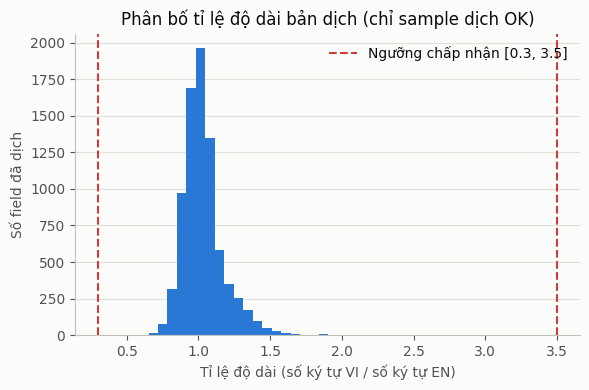
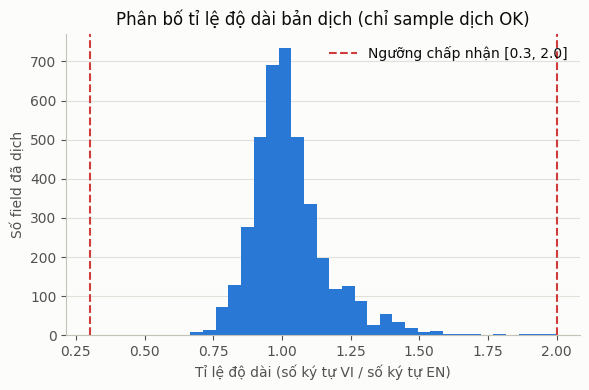
feat: update

diff --git a/src/test_set/qa_datasets/translate_dataset.py b/src/test_set/qa_datasets/translate_dataset.py
@@ -106,6 +106,11 @@ class TranslationResult:
     translated_fields: dict[str, str] = field(default_factory=dict)
     error: Optional[str] = None
     mode: str = "batched"  # "batched" | "fallback_single"
+    # Whatever the last parseable (but possibly rejected) translation attempt
+    # produced -- populated even when ok=False, so a failed sample's actual
+    # (bad) Gemini output can still be inspected later, not just its EN
+    # source and a category-string error reason.
+    attempted_fields: dict[str, str] = field(default_factory=dict)
 
 
 SYSTEM_PROMPT = """\
@@ -278,14 +283,22 @@ def _parse_response(response_text: str, units: list[TranslationUnit]) -> Optiona
 
 def translate_unit_single(
     client, model: str, unit: TranslationUnit, *, max_retries: int, usage_tracker: Optional[UsageTracker] = None,
+    initial_attempt: Optional[dict[str, str]] = None,
 ) -> TranslationResult:
     """Retries up to max_retries full attempts -- each one a fresh Gemini
     call -- as long as the *result* keeps failing validation (not just on
     API errors, which _call_gemini_json already retries internally). Gives
     the model repeated independent chances to get this one stubborn unit
-    right before giving up on it."""
+    right before giving up on it.
+
+    `initial_attempt`: an already-parsed-but-rejected translation from a
+    prior batch call for this same unit, if any -- kept as the reported
+    attempted_fields in case every retry here fails to even parse, so a
+    failed sample's actual (bad) output is never lost, just never accepted.
+    """
     prompt = _build_prompt([unit])
     last_error = "unknown error"
+    last_attempted = initial_attempt or {}
 
     for attempt in range(max_retries):
         try:
@@ -304,12 +317,15 @@ def translate_unit_single(
             continue
 
         translated = parsed[unit.sample_index]
+        last_attempted = translated
         reason = validate_unit(unit, translated)
         if reason is None:
             return TranslationResult(unit.sample_index, ok=True, translated_fields=translated, mode="fallback_single")
         last_error = reason
 
-    return TranslationResult(unit.sample_index, ok=False, error=last_error, mode="fallback_single")
+    return TranslationResult(
+        unit.sample_index, ok=False, error=last_error, mode="fallback_single", attempted_fields=last_attempted
+    )
 
 
 def translate_batch(
@@ -345,9 +361,14 @@ def translate_batch(
             results.append(TranslationResult(unit.sample_index, ok=True, translated_fields=translated))
         else:
             # Only this unit failed validation -- retry it alone, keep the
-            # rest of the batch's (valid) results as-is.
+            # rest of the batch's (valid) results as-is. Pass this batch
+            # attempt through as the fallback attempted_fields in case every
+            # single-unit retry fails to even parse.
             results.append(
-                translate_unit_single(client, model, unit, max_retries=max_retries, usage_tracker=usage_tracker)
+                translate_unit_single(
+                    client, model, unit, max_retries=max_retries, usage_tracker=usage_tracker,
+                    initial_attempt=translated,
+                )
             )
     return results
 
@@ -420,6 +441,7 @@ def translate_units(
                             "sample_index": r.sample_index,
                             "ok": r.ok,
                             "translated_fields": r.translated_fields,
+                            "attempted_fields": r.attempted_fields,
                             "error": r.error,
                             "mode": r.mode,
                         }, ensure_ascii=False) + "\n")

diff --git a/src/test_set/qa_datasets/TRANSLATION_QUALITY_REPORT.md b/src/test_set/qa_datasets/TRANSLATION_QUALITY_REPORT.md
@@ -39,8 +39,8 @@ loại) để phát hiện xu hướng, không chỉ đọc vài sample đầu f
 
 | Dataset | Tổng sample đã thử dịch | Dịch OK | Dịch lỗi (đã loại) | Tỉ lệ thành công |
 |---|---|---|---|---|
-| MusicBench | 2000 | 2000 | 0 | 100.0% |
-| MusicQA | 2000 | 1980 | 20 | 99.0% |
+| MusicBench | 1000 | 1000 | 0 | 100.0% |
+| MusicQA | 1000 | 988 | 12 | 98.8% |
 
 ![Tỉ lệ dịch thành công theo dataset](translation_success_rate.png)
 
@@ -54,35 +54,64 @@ loại) để phát hiện xu hướng, không chỉ đọc vài sample đầu f
 vài sample đã dịch" và mục "13. Mẫu bản dịch để dán vào báo cáo" trong
 notebook), nhận thấy:
 
-- Không có sample nào còn sót tiếng Anh trong các mẫu đã xem.
-- Cặp câu hỏi-câu trả lời của MusicQA giữ đúng ngữ cảnh với nhau sau khi
-  dịch — ví dụ câu hỏi "What do you hear in the audio?" dịch đúng ngôi
-  "Bạn nghe thấy gì trong đoạn âm thanh?", và câu trả lời vẫn mô tả đúng nội
-  dung tương ứng, không lệch chủ đề.
-- Thuật ngữ nhạc lý được xử lý hợp lý: giữ nguyên các từ chuyên ngành guitar
-  phổ biến trong cộng đồng nhạc Việt (`hammer-on`, `slide`, `riff`, `rim
-  shot`), đồng thời dịch hẳn sang tiếng Việt các khái niệm có thuật ngữ
-  tương đương rõ ràng (`E major` → "Mi trưởng (E major)", giữ cả hai để dễ
-  đối chiếu).
-- Độ dài bản dịch tương xứng bản gốc, không thấy dấu hiệu cắt cụt hay
-  hallucinate thêm nội dung không có trong câu gốc.
-
-*(Dán thêm mẫu từ mục "13" của notebook vào đây khi cập nhật báo cáo với dữ
-liệu mới.)*
+- Không có sample nào còn sót tiếng Anh trong cả 6 mẫu bên dưới (3
+  MusicBench, 3 MusicQA).
+- **Thuật ngữ nhạc lý nhất quán giữa các lượt gọi độc lập**: cả 3 mẫu
+  MusicBench đều dịch `riff`/`arpeggiated chord`/`hammer-on`/`slide`/`rim
+  shot`/`double stop hammer-on` giống hệt nhau (giữ nguyên tiếng Anh), và
+  `common time` → "nhịp 4/4", `E major` → "Mi trưởng (E major)" cũng lặp lại
+  y hệt ở cả 3 mẫu — vì mỗi caption được dịch ở một lượt gọi Gemini riêng
+  (khác batch), sự nhất quán này cho thấy lựa chọn thuật ngữ ổn định theo
+  system prompt, không phải trùng hợp ở một mẫu.
+- **Câu hỏi-câu trả lời của MusicQA giữ đúng ngữ cảnh với nhau** ở cả 3 mẫu:
+  câu lệnh mô tả ngắn ("Describe the audio", "Describe the audio in detail")
+  dịch đúng dạng câu lệnh khách quan ("Mô tả đoạn âm thanh này", "Mô tả chi
+  tiết đoạn âm thanh"), còn câu hỏi trực tiếp ("What do you hear in the
+  audio?") dịch đúng ngôi thứ 2 ("Bạn nghe thấy gì trong đoạn âm thanh?")
+  thay vì nhầm sang câu lệnh — câu trả lời tương ứng luôn bám đúng nội dung
+  được hỏi, không lệch chủ đề.
+- **Cách xử lý thuật ngữ tiếng Anh nhất quán giữa 2 dataset**: tên thể loại
+  nhạc (`alternative rock`, `post-rock`, `electronic`, `experimental`) giữ
+  nguyên không dịch; từ mơ hồ được chú thích song ngữ kiểu
+  `distorted` → "bị méo tiếng (distorted)", cùng kỹ thuật với
+  "Mi trưởng (E major)" bên MusicBench.
+- Độ dài và mức chi tiết bản dịch tương xứng bản gốc ở cả 6 mẫu, không thấy
+  dấu hiệu cắt cụt hay hallucinate thêm nội dung không có trong câu gốc.
 
 **MusicBench**
 
-> EN: (dán mẫu từ notebook vào đây)
+> EN: This mellow instrumental track showcases a dominant electric guitar that opens with a descending riff, followed by arpeggiated chords, hammer-ons, and a slide. The percussion section keeps it simple with rim shots and a common time count, while the bass adds a single note on the first beat of every bar. Minimalist piano chords round out the song while leaving space for the guitar to shine. There are no vocals, making it perfect for a coffee shop or some chill background music. The key is in E major, with a chord progression that centers around that key and a straightforward 4/4 time signature.
 >
-> VI: (dán mẫu từ notebook vào đây)
+> VI: Bản nhạc không lời êm dịu này làm nổi bật tiếng guitar điện chủ đạo, mở đầu bằng một đoạn riff đi xuống, theo sau là các hợp âm rải (arpeggio), kỹ thuật hammer-on và slide. Phần bộ gõ giữ nhịp đơn giản với tiếng rim shot và nhịp 4/4, trong khi tiếng bass chỉ đánh một nốt vào phách đầu của mỗi ô nhịp. Những hợp âm piano tối giản làm tròn trịa bài hát, để lại khoảng trống cho tiếng guitar tỏa sáng. Bài hát không có giọng hát, rất phù hợp cho quán cà phê hoặc làm nhạc nền thư giãn. Bài hát ở giọng Mi trưởng (E major), với vòng hợp âm xoay quanh giọng này và nhịp 4/4 thẳng thắn.
+
+> EN: This relaxing song is perfect for a coffee shop setting. With no vocals, the electric guitar takes the lead, starting with a descending run before moving into an arpeggiated chord and double stop hammer-on to a higher note. A descending slide follows, along with a chord run while the simple percussion keeps time with rim shots. The bass plays a single note on the first count of each bar while the piano provides backing chords. All of this comes together in common time, with a beat of four that will create a laid-back atmosphere.
+>
+> VI: Bài hát thư giãn này rất phù hợp với không gian quán cà phê. Không có giọng hát, guitar điện đóng vai trò dẫn dắt, bắt đầu bằng một đoạn chạy nốt đi xuống trước khi chuyển sang hợp âm rải và kỹ thuật double stop hammer-on lên nốt cao hơn. Tiếp theo là một cú slide đi xuống cùng một đoạn chạy hợp âm, trong khi bộ gõ đơn giản giữ nhịp bằng tiếng rim shot. Bass chơi một nốt ở phách đầu mỗi ô nhịp trong khi piano cung cấp các hợp âm đệm. Tất cả hòa quyện trong nhịp 4/4, với nhịp đếm 4 tạo nên một bầu không khí thoải mái.
+
+> EN: This laid-back instrumental track is perfect for a coffee shop ambiance. Featuring an electric guitar as the primary instrument, the song begins with a descending run followed by an arpeggiated chord and a hammer-on to a higher note. The percussion provides a simple beat with rim shots while the bass hits only one note on the first count of each bar. The piano plays backing chords as the guitar continues with a descending slide and chord run. There are no vocals, allowing for a relaxing and chill mood. The song is in common time with a chord progression of E and a 4-count beat.
+>
+> VI: Bản nhạc không lời thoải mái này rất phù hợp cho không gian quán cà phê. Với guitar điện là nhạc cụ chính, bài hát bắt đầu bằng một đoạn chạy nốt đi xuống, theo sau là hợp âm rải và kỹ thuật hammer-on lên nốt cao hơn. Bộ gõ cung cấp nhịp điệu đơn giản với tiếng rim shot, trong khi bass chỉ đánh một nốt ở phách đầu mỗi ô nhịp. Piano chơi các hợp âm đệm khi guitar tiếp tục với một cú slide đi xuống và đoạn chạy hợp âm. Không có giọng hát, tạo nên tâm trạng thư giãn và chill. Bài hát ở nhịp 4/4 với vòng hợp âm E và nhịp đếm 4.
+
 
 **MusicQA**
 
-> Q (EN): (dán mẫu từ notebook vào đây)
-> Q (VI): (dán mẫu từ notebook vào đây)
+> Q (EN): Describe the audio
+> Q (VI): Mô tả đoạn âm thanh này
 >
-> A (EN): (dán mẫu từ notebook vào đây)
-> A (VI): (dán mẫu từ notebook vào đây)
+> A (EN): The audio is an alternative rock post-rock electronic experimental track.
+> A (VI): Đây là một bản nhạc thuộc thể loại alternative rock, post-rock, electronic và experimental.
+
+> Q (EN): Describe the audio in detail
+> Q (VI): Mô tả chi tiết đoạn âm thanh
+>
+> A (EN): The audio is a blend of post-rock and electronic experimental sounds, with a heavy emphasis on drums and bass. The track features a variety of instrumentation, including guitar, synthesizers, and samples. The overall sound is raw and experimental, with a strong emphasis on atmosphere and mood.
+> A (VI): Đoạn âm thanh là sự pha trộn giữa post-rock và âm hưởng electronic experimental, với điểm nhấn mạnh vào trống và bass. Bản nhạc sử dụng đa dạng nhạc cụ bao gồm guitar, synthesizer và các đoạn sample. Âm thanh tổng thể mang tính thô mộc và thử nghiệm, chú trọng nhiều vào không gian và cảm xúc.
+
+> Q (EN): What do you hear in the audio?
+> Q (VI): Bạn nghe thấy gì trong đoạn âm thanh?
+>
+> A (EN): The audio is a mix of distorted guitar riffs, electronic samples, and experimental sounds. The drums and bass are heavily distorted, creating a raw and aggressive sound. The track features a variety of samples, including snippets of dialogue and sound effects. The overall sound is experimental and unpredictable, with a strong emphasis on atmosphere and mood.
+> A (VI): Đoạn âm thanh là sự kết hợp giữa các đoạn riff guitar bị méo tiếng (distorted), các đoạn sample điện tử và những âm thanh thử nghiệm. Tiếng trống và bass bị méo tiếng mạnh, tạo nên chất âm thô ráp và đầy gai góc. Bản nhạc sử dụng nhiều sample, bao gồm cả các đoạn hội thoại và hiệu ứng âm thanh. Âm thanh tổng thể mang tính thử nghiệm và khó đoán, với sự chú trọng mạnh mẽ vào bầu không khí và tâm trạng.
 
 ## 4. Hạn chế đã biết
 
@@ -104,10 +133,52 @@ liệu mới.)*
 
 ## 5. Chi phí & thời gian dịch (ước tính /1000 sample)
 
-*(Copy bảng in ra từ mục "12. Chi phí + thời gian dịch" trong notebook vào
-đây — số liệu phụ thuộc model, batch size, và giá tại thời điểm chạy.)*
-
-| Dataset | Sample dịch (lần chạy) | Thời gian ước tính /1000 sample | Chi phí ước tính /1000 sample |
+| Dataset | Sample dịch (lần chạy này) | Thời gian ước tính /1000 sample | Chi phí ước tính /1000 sample |
 |---|---|---|---|
-| MusicBench | — | — | — |
-| MusicQA | — | — | — |
+| MusicBench | 1000 | 3.2 phút | $0.2146 |
+| MusicQA | 1000 | 1.4 phút | $0.0667 |
+
+## 6. Toàn bộ sample dịch lỗi
+
+### MusicBench -- sample dịch lỗi (0)
+
+_Không có sample lỗi nào._
+
+### MusicQA -- sample dịch lỗi (12)
+
+- **sample_index=216** -- lỗi: field 'answer': output doesn't look like Vietnamese
+  - `question` (EN gốc): Describe the audio
+  - `answer` (EN gốc): Electronic, hardrock, metal, pop, progressive, rock
+- **sample_index=314** -- lỗi: field 'question': length ratio out of range
+  - `question` (EN gốc): Is the audio psychedelic?
+  - `answer` (EN gốc): No, the audio is not psychedelic.
+- **sample_index=753** -- lỗi: field 'question': length ratio out of range
+  - `question` (EN gốc): Is the audio ambient?
+  - `answer` (EN gốc): Yes, the audio is ambient.
+- **sample_index=859** -- lỗi: field 'answer': output doesn't look like Vietnamese
+  - `question` (EN gốc): What genre of music is "calm" in this list of tags?
+  - `answer` (EN gốc): Instrumentalpop.
+- **sample_index=860** -- lỗi: field 'answer': output doesn't look like Vietnamese
+  - `question` (EN gốc): What type of instrument is featured in this audio?
+  - `answer` (EN gốc): Guitar.
+- **sample_index=861** -- lỗi: field 'answer': output doesn't look like Vietnamese
+  - `question` (EN gốc): What mood or emotion does the music evoke?
+  - `answer` (EN gốc): Blues.
+- **sample_index=862** -- lỗi: field 'answer': output doesn't look like Vietnamese
+  - `question` (EN gốc): Is this a solo or a group performance?
+  - `answer` (EN gốc): Solo.
+- **sample_index=913** -- lỗi: field 'answer': output doesn't look like Vietnamese
+  - `question` (EN gốc): What genre of music is characterized by a breakbeat and electronic elements?
+  - `answer` (EN gốc): Techno.
+- **sample_index=914** -- lỗi: field 'answer': output doesn't look like Vietnamese
+  - `question` (EN gốc): What type of punkrock song would feature heavy bass and drums?
+  - `answer` (EN gốc): Breakbeat punk.
+- **sample_index=915** -- lỗi: field 'answer': output doesn't look like Vietnamese
+  - `question` (EN gốc): What style of music combines elements of electronic and punkrock?
+  - `answer` (EN gốc): Synthpunk.
+- **sample_index=916** -- lỗi: field 'answer': output doesn't look like Vietnamese
+  - `question` (EN gốc): What type of electronic music would feature a heavy beat and drums?
+  - `answer` (EN gốc): Breakbeat electronic.
+- **sample_index=917** -- lỗi: field 'answer': output doesn't look like Vietnamese
+  - `question` (EN gốc): What genre of music would combine elements of punkrock and techno?
+  - `answer` (EN gốc): Cyberpunk.
